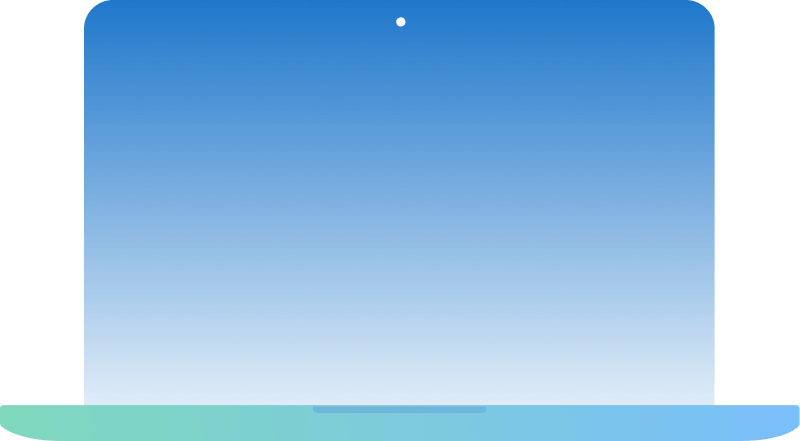
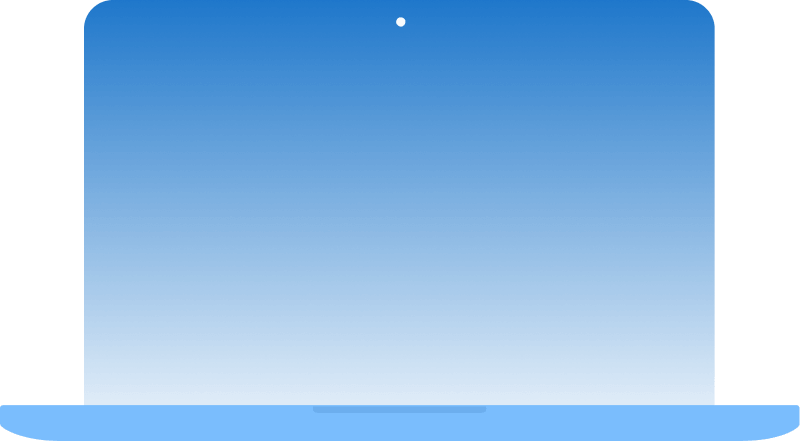
Adjust in LP style

Changed region(s): [[0.0, 0.9138, 0.625, 1.0]]

diff --git a/web/app/assets/stylesheets/welcome/application.scss b/web/app/assets/stylesheets/welcome/application.scss
@@ -1,6 +1,7 @@
 @import "normalize";
 @import "media-queries";
 @import "smile";
+@import "variables";
 
 .template__container {
   font-family: Cabin, sans-serif;
@@ -328,8 +329,8 @@ section {
     text-transform: uppercase;
     color: #FFFFFF;
     justify-content: center;
-    background: linear-gradient(90deg, #2ECC71 0.04%, #2191FB 99.96%);
-    box-shadow: 0px 0px 45px rgba(0, 0, 0, 0.25);
+    background: linear-gradient(90deg, $brand-shadow-color-left 0.04%, $brand-color-left 99.96%);
+    box-shadow: 0 0 45px rgba(0, 0, 0, 0.25);
     border-radius: 60px;
     margin: 85px auto 0 auto;
     cursor: pointer;
@@ -398,15 +399,15 @@ section {
     }
 
     &__person-face {
-      width: 65px;
-      height: 65px;
-      border: 2px solid #FFFFFF;
+      width: 60px;
+      height: 60px;
+      border: 1px solid #FFFFFF;
       border-radius: 100%;
       position: absolute;
       left: 0;
-      background-color: #2294f340;
-      background-blend-mode: soft-light;
-      background-size: cover;
+      background-color: #c6e5ff;
+      background-size: inherit;
+      background-position: center;
       //transition: transform 2s ease;
       @include mobile-only {
         width: 35px;
@@ -504,17 +505,17 @@ section {
 
     &--q2 {
       grid-area: q2;
-      background: #FFFBE3;
+      background: #E4F2FB;
     }
 
     &--q3 {
       grid-area: q3;
-      background: #E5FFEE;
+      background: #E4F2FB;
     }
 
     &--q4 {
       grid-area: q4;
-      background: #FFFBE3;
+      background: #E4F2FB;
     }
 
     &--q5 {

diff --git a/web/app/assets/javascripts/welcome/application.js b/web/app/assets/javascripts/welcome/application.js
@@ -104,7 +104,8 @@ document.addEventListener('DOMContentLoaded', function () {
 			requestAnimationFrame(() => {
 				answerEl.style.display = 'flex';
 				answerEl.classList.add('is-showin');
-				answerEl.style.background = item.dataset.color;
+				// answerEl.style.background = item.dataset.color;
+				answerEl.style.background = '#ffffff';
 
 				answerEl.querySelector(`[data-answer=${item.dataset.question}]`).style.display = 'block';
 

diff --git a/web/app/assets/stylesheets/_variables.scss b/web/app/assets/stylesheets/_variables.scss
@@ -1,4 +1,5 @@
 $brand-color-left: #2ECC71; // #5EEDDE; // #31916C; // #26B679
+$brand-shadow-color-left: #2BBE69;
 $brand-color-intersect: #2bb3ae;
 $brand-color-right: #2191FB;
 $brand-color-high-contrast: #0C0F0A; //darken($brand-color, 10%);
